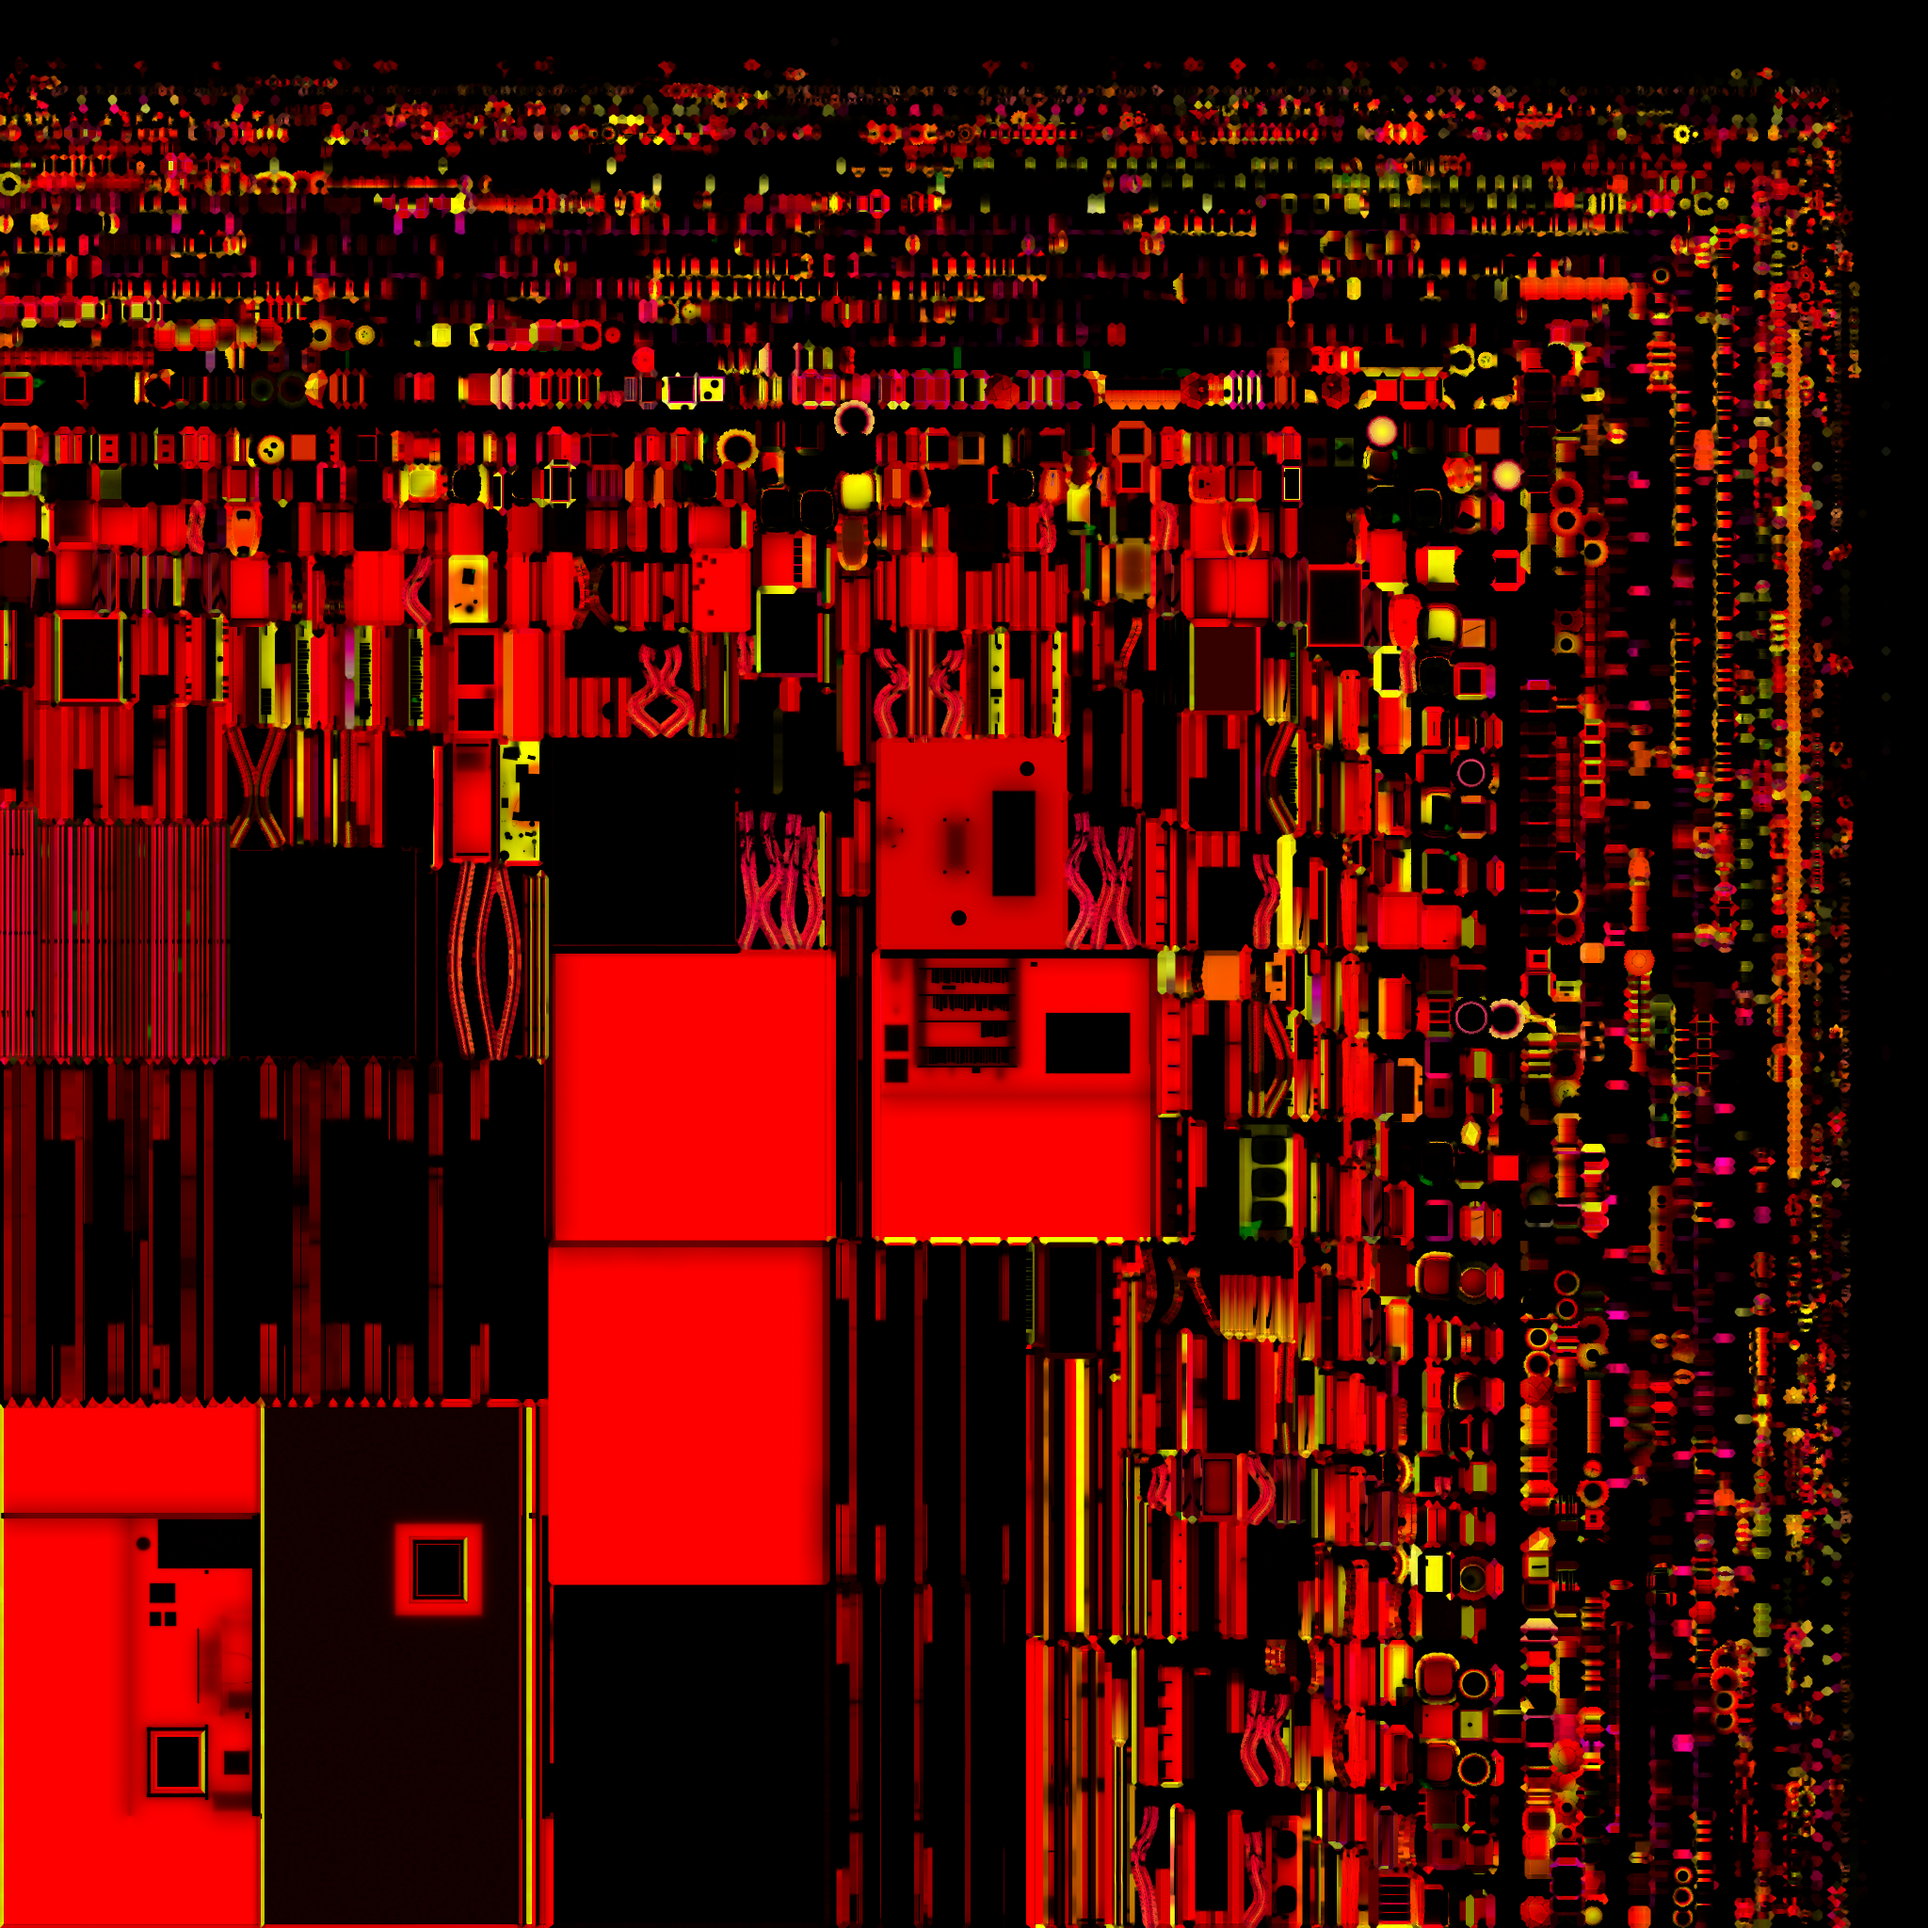
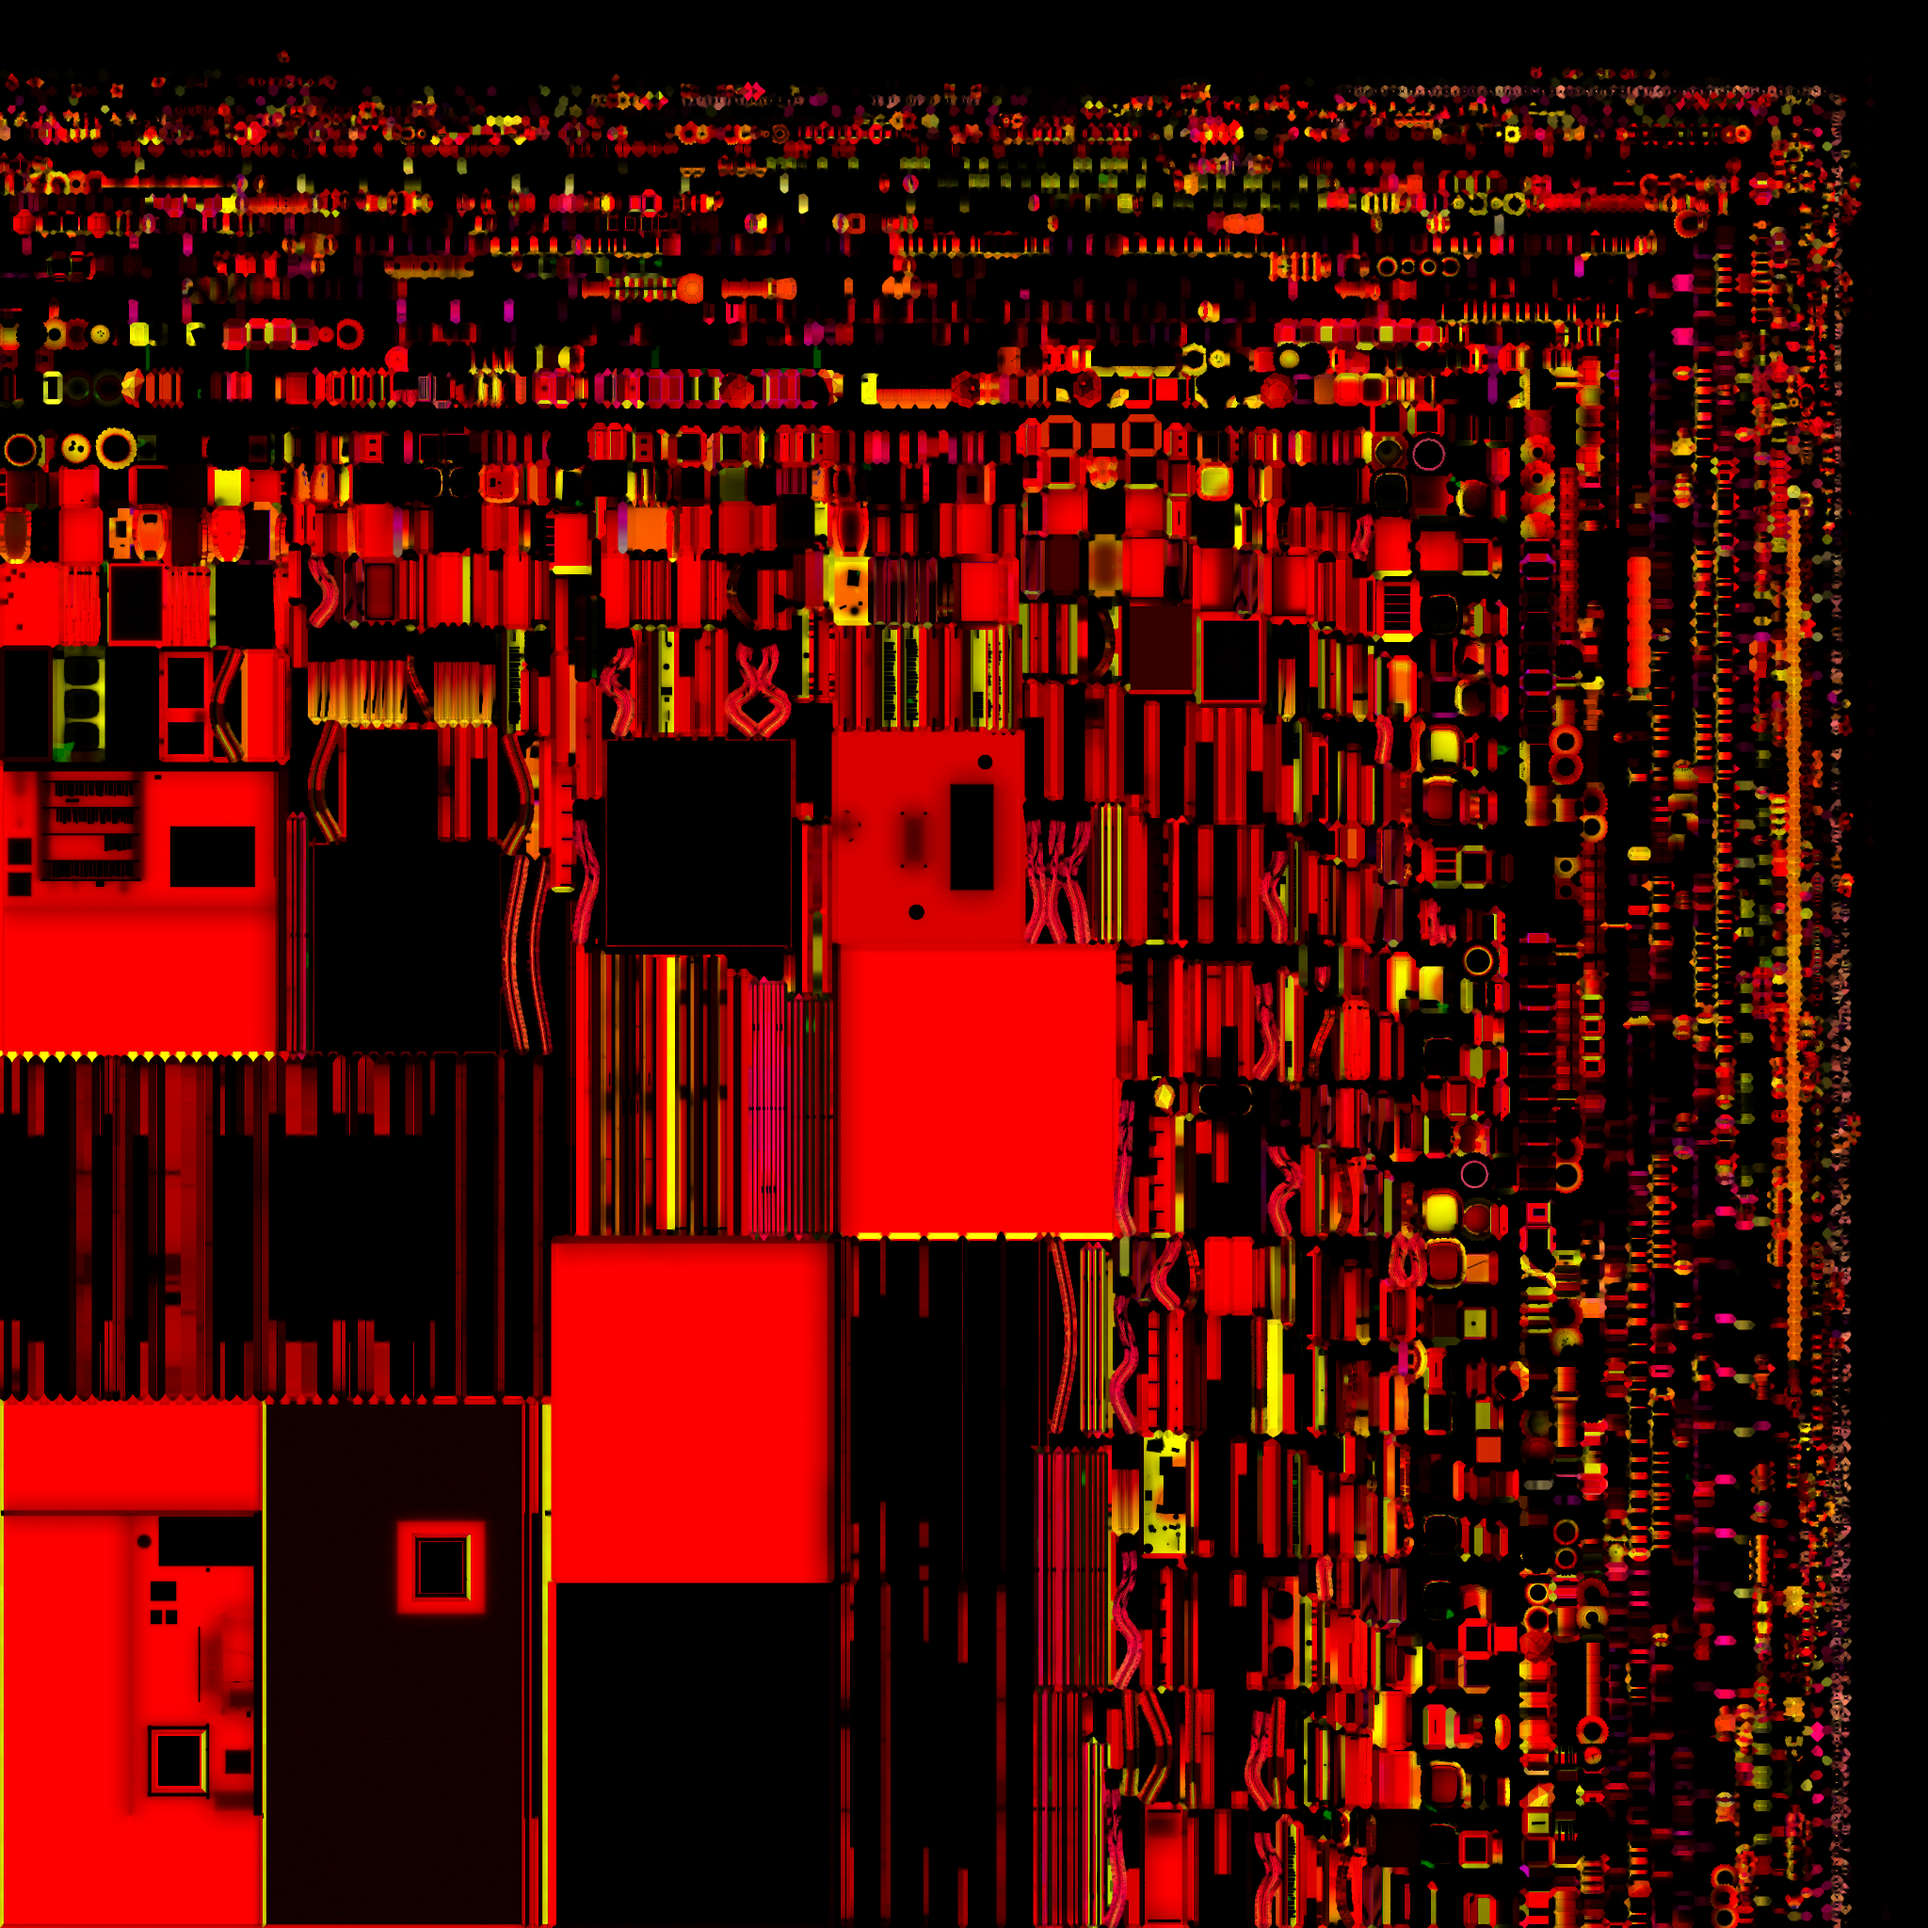
Bake the room, and write the stamp where the export can see it
The bake that ties a lightmap to a model is matched by a geometry fingerprint,
and the fingerprint had nowhere reliable to come from. `build_room --blend`
saves the blend and exits — it never writes a stamp — while `export_room`, the
thing that actually produces the shipped GLB, never wrote one either. Between
them sat a `room-geometry.json` from some earlier scene entirely. This bake
finished, matched nothing, and was refused.

That failure is invisible by design, which is what makes it expensive: the
runtime silently falls back to real-time lighting, so a rejected bake and a
room nobody has baked yet look identical — flat light, no error, and half an
hour of Cycles on the floor. It is the third time this seam has cost real work
in this project.

So the stamp is written by the export, from the scene the export is looking at,
immediately before the bake-only geometry is dropped. Before, because
`bake_room` computes its own copy with the ceiling still in place; taking the
fingerprint after the drop would produce a number no bake could ever reproduce
and every bake would look stale the moment it finished.

The lightmap itself: 178 objects at 4096 and 256 samples, with the aging pass
behind it, and the world fill raised to 0.15 so the corners the practicals
cannot reach stay above what the tone curve can separate.

diff --git a/src/room/data/objectBounds.ts b/src/room/data/objectBounds.ts
@@ -35,31 +35,31 @@ export const objectBounds = {
     center: [0.3227, 1.09, 2.3169],
     size: [0.6168, 0.375, 0.1338],
   },
-  cv: {
+  'cv': {
     min: [0.798, 0.7156, 1.8216],
     max: [1.042, 1.0958, 2.1133],
     center: [0.92, 0.9057, 1.9675],
     size: [0.244, 0.3802, 0.2916],
   },
-  laptop: {
+  'laptop': {
     min: [-0.743, 0.79, 1.9564],
     max: [-0.3835, 1.0256, 2.206],
     center: [-0.5632, 0.9078, 2.0812],
     size: [0.3595, 0.2356, 0.2496],
   },
-  notebook: {
+  'notebook': {
     min: [0.1666, 0.79, 2.0317],
     max: [0.3534, 0.806, 2.2683],
     center: [0.26, 0.798, 2.15],
     size: [0.1867, 0.016, 0.2366],
   },
-  bookshelf: {
+  'bookshelf': {
     min: [-3.1554, 0.3175, -1.63],
     max: [-2.894, 2.108, -0.15],
     center: [-3.0247, 1.2128, -0.89],
     size: [0.2614, 1.7905, 1.48],
   },
-  whiteboard: {
+  'whiteboard': {
     min: [-3.165, 1.145, 0.55],
     max: [-3.088, 2.295, 2.15],
     center: [-3.1265, 1.72, 1.35],
@@ -77,37 +77,37 @@ export const objectBounds = {
     center: [2.88, 0.49, 2.132],
     size: [0.5, 0.98, 0.636],
   },
-  certificates: {
+  'certificates': {
     min: [-1.7225, 1.7675, 2.484],
     max: [-0.8875, 2.2525, 2.484],
     center: [-1.305, 2.01, 2.484],
     size: [0.835, 0.485, 0],
   },
-  lamp: {
+  'lamp': {
     min: [0.6792, 0.79, 2.0946],
     max: [1.095, 1.315, 2.515],
     center: [0.8871, 1.0525, 2.3048],
     size: [0.4158, 0.525, 0.4204],
   },
-  window: {
+  'window': {
     min: [-52.95, -20.0333, 2.35],
     max: [57.05, 34.0333, 76],
     center: [2.05, 7, 39.175],
     size: [110, 54.0667, 73.65],
   },
-  mug: {
+  'mug': {
     min: [0.357, 0.7975, 1.847],
     max: [0.499, 0.893, 1.933],
     center: [0.428, 0.8453, 1.89],
     size: [0.142, 0.0955, 0.086],
   },
-  headphones: {
+  'headphones': {
     min: [0.5241, 0.79, 1.7985],
     max: [0.7959, 0.9127, 1.9015],
     center: [0.66, 0.8514, 1.85],
     size: [0.2717, 0.1227, 0.1029],
   },
-  keyboard: {
+  'keyboard': {
     min: [-0.3142, 0.7893, 1.8609],
     max: [-0.0058, 0.8226, 2.001],
     center: [-0.16, 0.806, 1.931],

diff --git a/scripts/blender/export_room.py b/scripts/blender/export_room.py
@@ -1212,6 +1212,24 @@ def main() -> None:
     # ties a bake to a model is written by `build_room` from the full scene, so
     # nothing here may touch it — dropping geometry after stamping keeps the
     # lightmap valid, and dropping it before would invalidate every bake.
+    # The stamp that ties a bake to a model, written from this scene.
+    #
+    # It has to happen here, and it has to happen *before* the drop. The stamp
+    # used to be written only by a full `build_room` run — but `--blend` saves
+    # the blend and exits without writing one, so anybody who rebuilt the blend
+    # and then exported was shipping a model described by a fingerprint taken
+    # from some earlier scene. The runtime compares the two and quietly refuses
+    # the lightmap when they disagree, which looks exactly like a room that was
+    # never baked: no error, no warning, just flat lighting and a wasted hour of
+    # Cycles.
+    #
+    # Before the drop, because `bake_room` computes its own copy from the blend
+    # with the bake-only geometry still in it. Taking the fingerprint after
+    # removing the ceiling would produce a number the bake can never reproduce,
+    # and every bake would look stale the moment it finished.
+    stamp = write_geometry_stamp(os.path.join(ROOT, "public", "models", "room-geometry.json"))
+    print(f"[export_room] geometry {stamp[:12]}…")
+
     # Imported here rather than at the top, mirroring how `build_room` imports
     # this module: the two need each other and a pair of module-level imports
     # would be a cycle.
